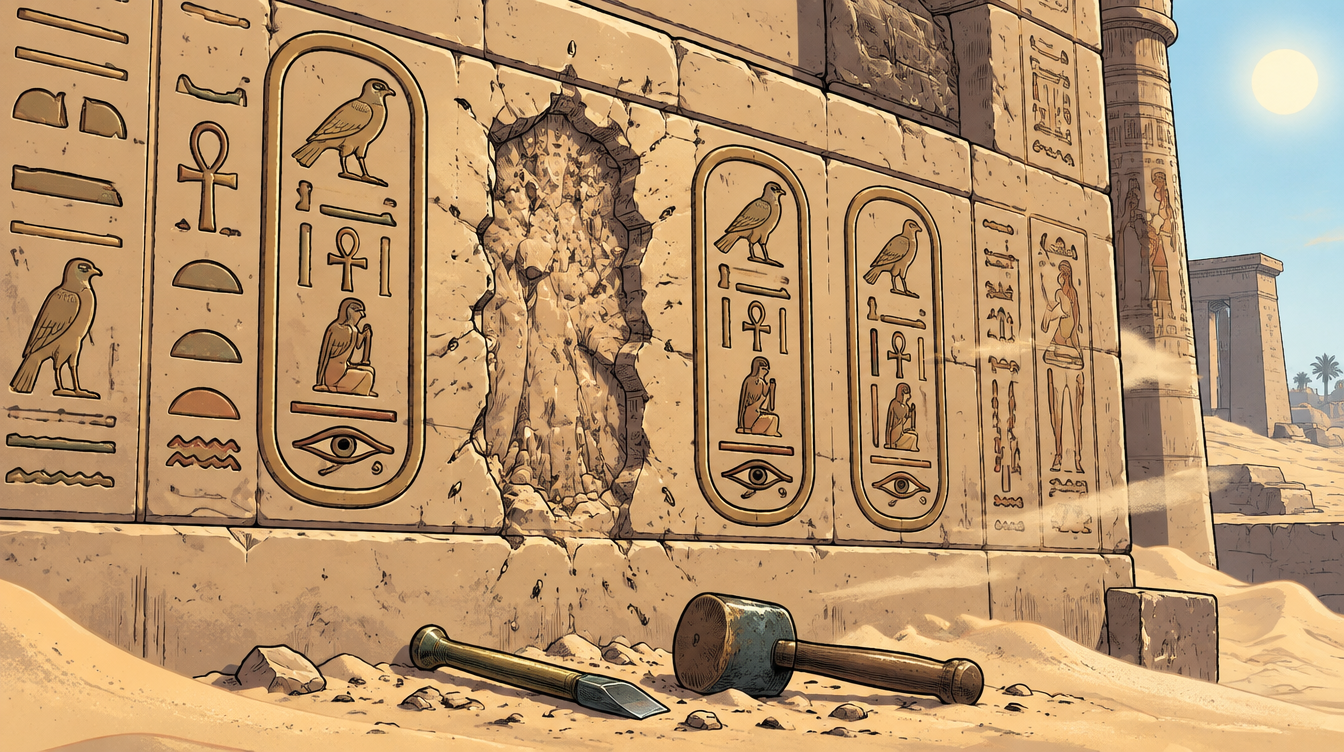
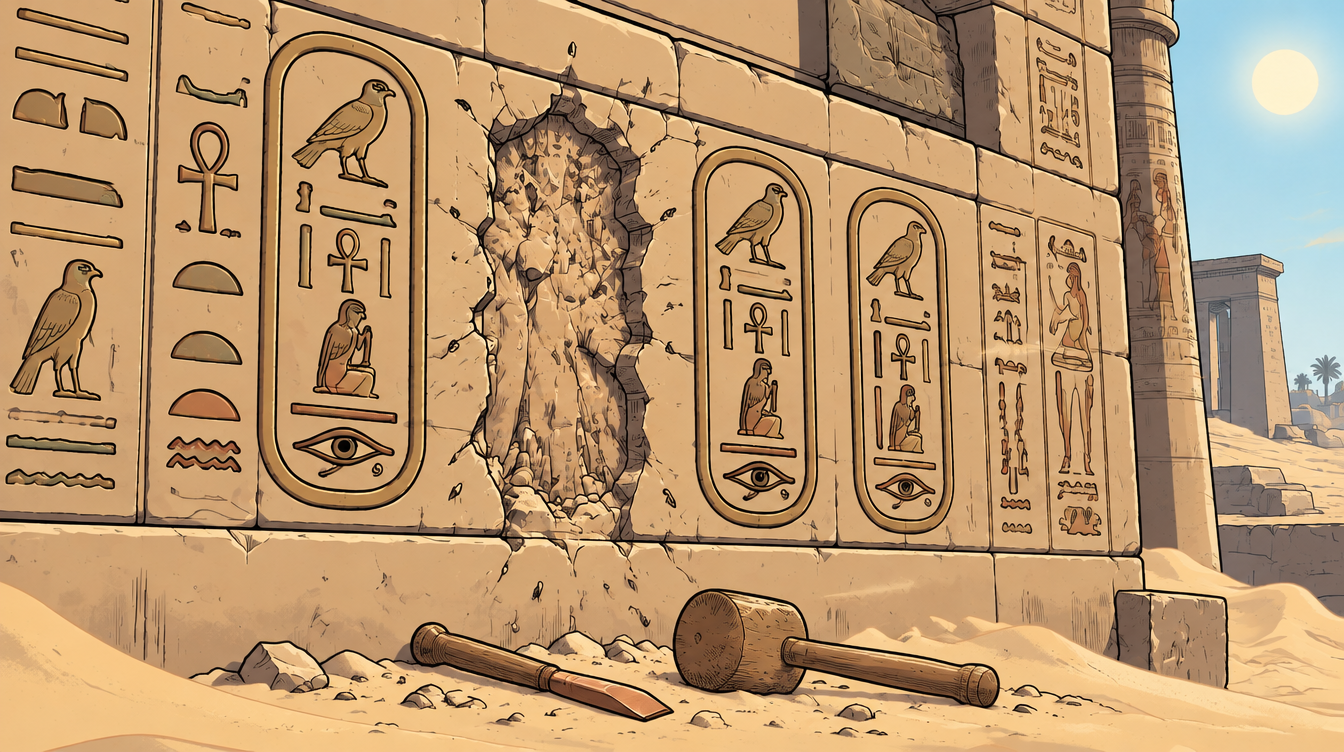
Tutankhamun test: year plate bottom-right, redrawn frames 3/7/9 (tools, hand, period)
Claude-Session: https://claude.ai/code/session_01TNc2K3rtukezXrYScECeSq

diff --git a/history/tut/make_test.py b/history/tut/make_test.py
@@ -51,8 +51,8 @@ def overlay(k, cap):
     yr = YEAR.get(k)
     if yr:
         # year plate: big, top-left, solid dark plate + red bar (brand), readable on any background and on a phone
-        f = ImageFont.truetype(FONT, 104); d = ImageDraw.Draw(L)
-        tw = d.textlength(yr, font=f); x0, y0 = 48, 44
+        f = ImageFont.truetype(FONT, 96); d = ImageDraw.Draw(L)
+        tw = d.textlength(yr, font=f); x0, y0 = W - 48 - (tw + 56), Hh - 44 - 124   # bottom-right, away from the title
         d.rounded_rectangle([x0, y0, x0 + tw + 56, y0 + 124], 14, fill=(12, 12, 12, 215))
         d.rectangle([x0, y0 + 112, x0 + tw + 56, y0 + 124], fill=(200, 30, 30, 255))
         d.text((x0 + 28, y0 + 58), yr, font=f, fill="white", anchor="lm")
